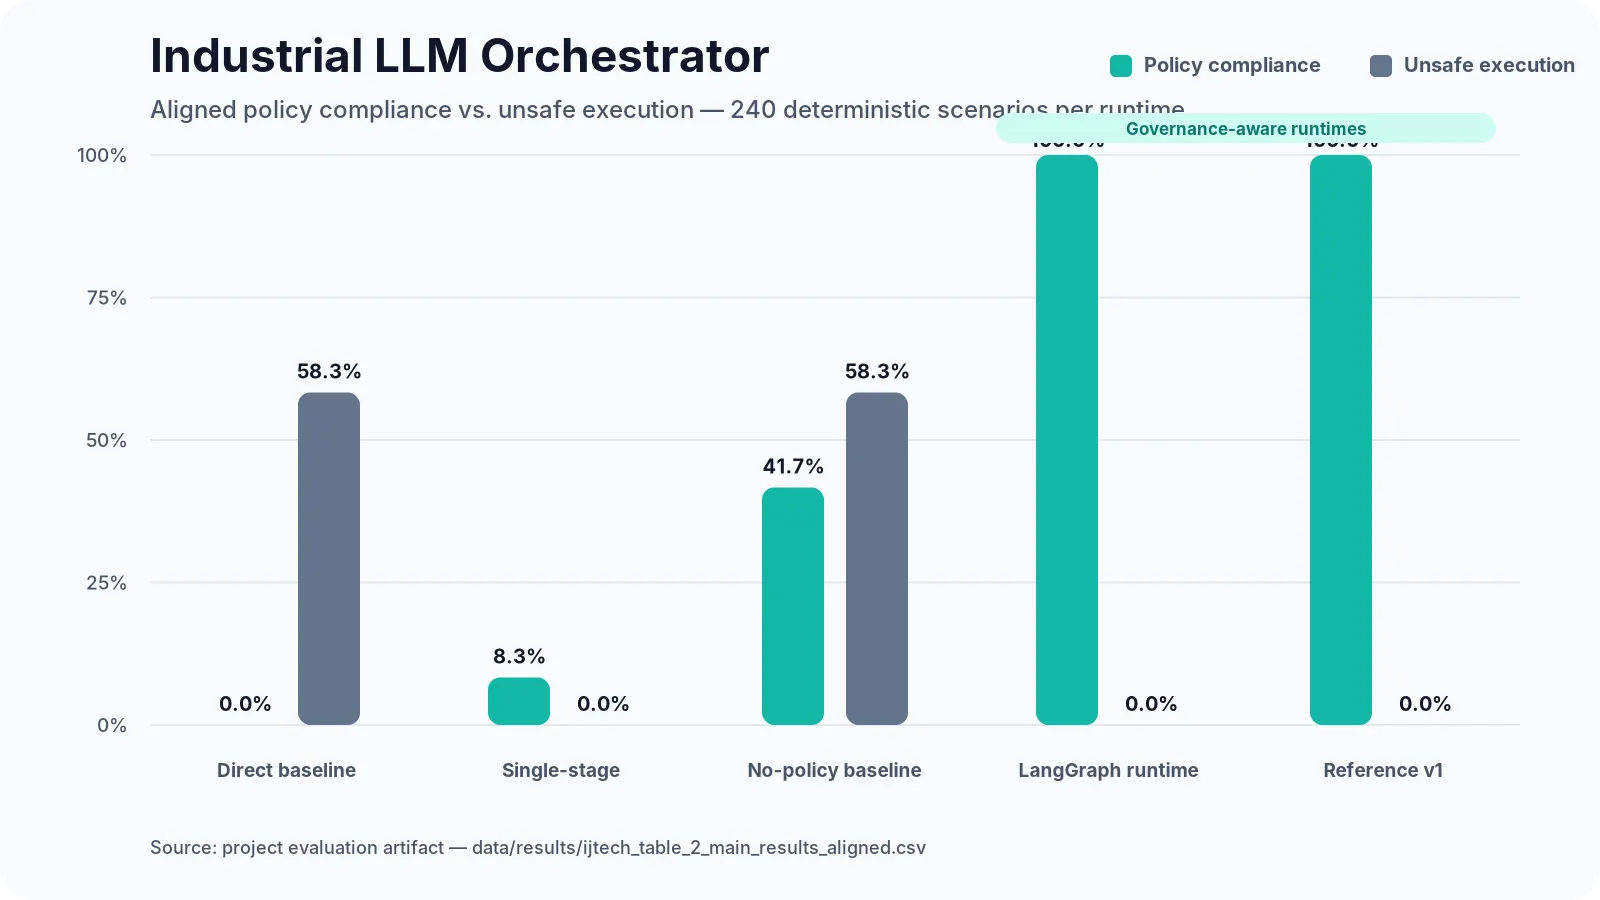
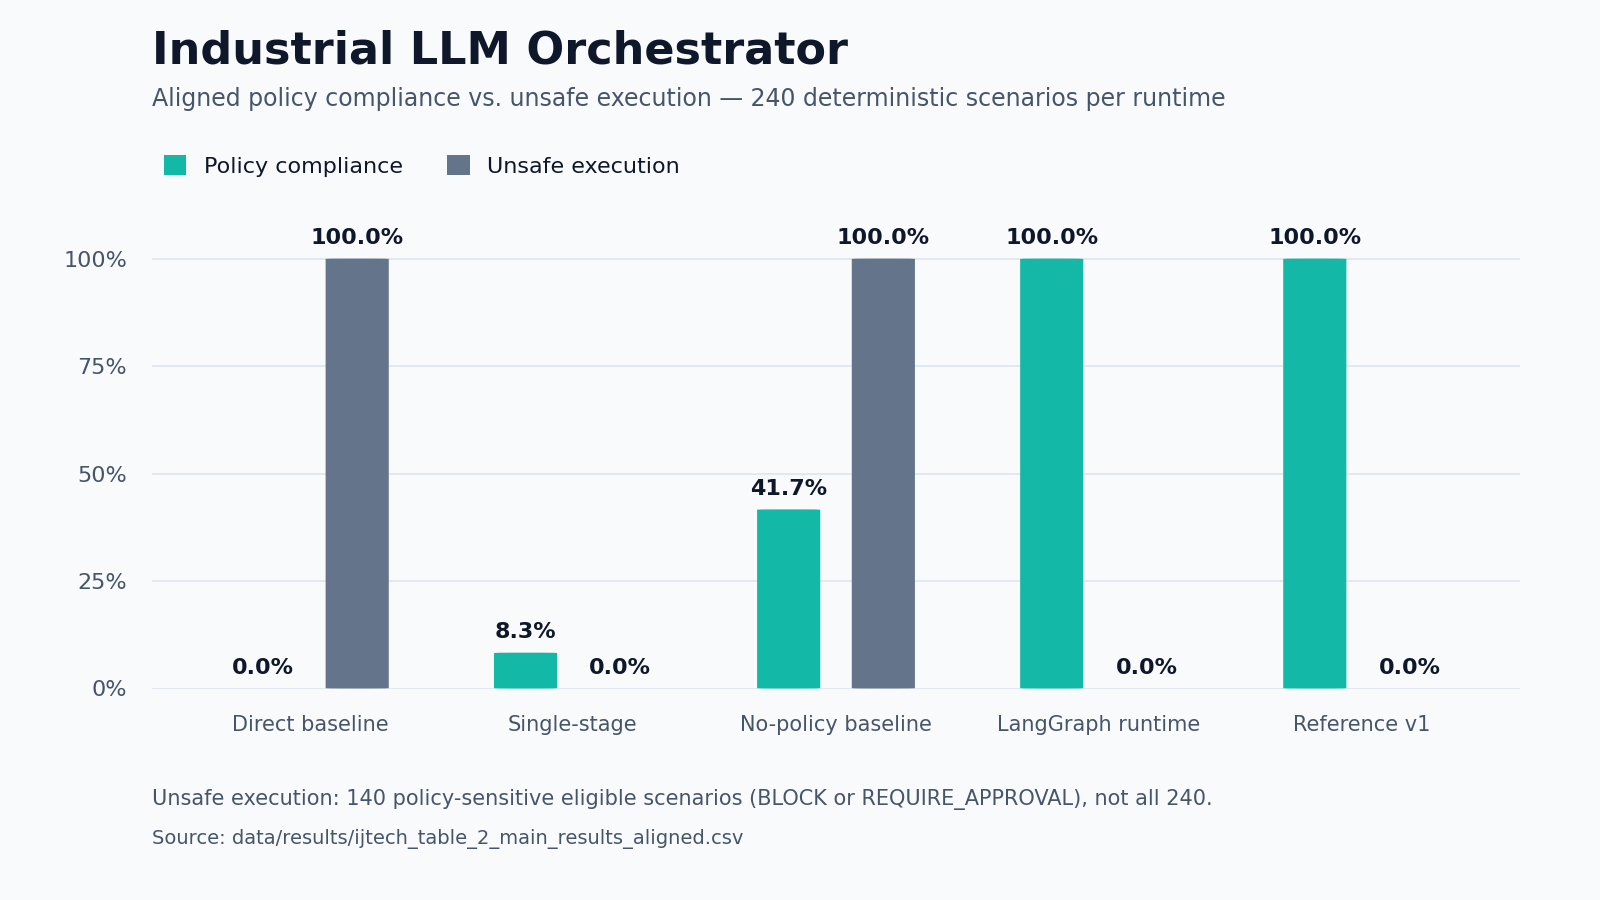
Finalize portfolio research evidence and positioning

diff --git a/projects.html b/projects.html
@@ -93,29 +93,35 @@
           <article class="project-detail" id="deep-synaptica">
             <img src="assets/images/projects/deep-synaptica.webp" width="1672" height="941" loading="lazy" alt="Deep Synaptica dashboard showing agent traces and evaluation" />
             <div>
-              <span class="project-label">Current research platform</span>
+              <span class="project-label">Research infrastructure / MVP</span>
               <h2>Deep Synaptica</h2>
               <p>
                 <strong>Research question:</strong> How can agent behavior be
                 made observable and reproducibly evaluated at the run level?
               </p>
               <p>
-                <strong>Method:</strong> A FastAPI backend connects an agent
-                runtime and custom JSON tracer to a Next.js/TypeScript dashboard
-                for inspecting tool use, outputs and latency.
+                <strong>Method:</strong> Implemented components include a FastAPI
+                run API, a Python/Groq workflow, a custom JSONL tracer, file-based
+                run summaries, and a Next.js/TypeScript dashboard. Integration
+                between runtime execution, tracing, summary persistence and
+                dashboard views is still in progress.
               </p>
               <p>
-                <strong>Evidence:</strong> Run API endpoints and stored JSONL
-                traces provide implementation artifacts for inspecting agent
-                behavior and developing evaluation workflows.
+                <strong>Evidence:</strong> The repository provides implemented
+                API routes, tracer schemas, JSONL event serialization, file-based
+                summary retrieval, and dashboard views as component-level
+                research infrastructure. Successful end-to-end run creation is
+                not yet demonstrated.
               </p>
               <p>
                 <strong>My contribution:</strong> Designed and implemented the
-                MVP architecture as part of my agent-observability research.
+                MVP components for agent-observability and evaluation research.
               </p>
               <p>
-                <strong>Scope:</strong> Research infrastructure / MVP; not a
-                production observability platform.
+                <strong>Scope:</strong> Research infrastructure / MVP with
+                incomplete end-to-end integration; not a production observability
+                platform or validated agent-quality benchmark. General tool
+                execution and tool-call tracing are not yet implemented.
               </p>
               <a
                 class="text-link"
@@ -129,7 +135,7 @@
           <article class="project-detail" id="industrial-orchestrator">
             <img
               src="assets/images/projects/industrial-orchestrator.webp" width="1600" height="900" loading="lazy"
-              alt="Outcome accuracy and policy compliance by orchestration runtime"
+              alt="Aligned policy compliance and conditional unsafe execution by orchestration runtime"
             />
             <div>
               <span class="project-label"
@@ -153,6 +159,17 @@
                 journal profile, both governance-aware runtimes recorded
                 runtime-aligned outcome accuracy and policy compliance of 1.0,
                 with zero unsafe executions under the documented definitions.
+              </p>
+              <p class="project-note">
+                Unsafe execution is calculated over the 140 policy-sensitive
+                eligible scenarios (BLOCK or REQUIRE_APPROVAL), not all 240
+                journal-profile scenarios.
+                <a class="text-link"
+                  href="assets/images/projects/industrial-orchestrator.webp"
+                  target="_blank"
+                  rel="noopener noreferrer"
+                  >View full-size chart<span class="icon" data-icon="external"></span></a
+                >
               </p>
               <p>
                 <strong>Scope:</strong> Deterministic research scenarios and mock
@@ -340,7 +357,7 @@
               <p>
                 <a
                   class="text-link"
-                  href="https://github.com/MarwanMAlfalah/phishing-website-detection-content-based-analysis"
+                  href="https://github.com/MarwanMAlfalah/content-phishing-detection"
                   target="_blank"
                   rel="noopener noreferrer"
                   >Code<span class="icon" data-icon="external"></span

diff --git a/index.html b/index.html
@@ -92,6 +92,9 @@
                 rel="noopener noreferrer"
                 >View CV</a
               >
+              <a class="text-link" href="publications.html"
+                >Publications<span class="icon" data-icon="arrowRight"></span></a
+              >
             </div>
             <div class="social-row">
               <a
@@ -267,7 +270,7 @@
                     rel="noopener noreferrer"
                     >Paper</a
                   ><a
-                    href="https://github.com/MarwanMAlfalah/phishing-website-detection-content-based-analysis"
+                    href="https://github.com/MarwanMAlfalah/content-phishing-detection"
                     target="_blank"
                     rel="noopener noreferrer"
                     >Code</a
@@ -327,8 +330,8 @@
               <div class="timeline-item">
                 <div class="timeline-date">2026</div>
                 <div class="timeline-text">
-                  Developing Deep Synaptica for agent observability and
-                  measurable evaluation.
+                  Developing Deep Synaptica as research infrastructure for
+                  agent observability and evaluation.
                 </div>
               </div>
               <div class="timeline-item">
@@ -378,8 +381,8 @@
                 <span class="project-label">Current</span>
                 <h3>Deep Synaptica</h3>
                 <p>
-                  An open-source observability and evaluation platform for
-                  making agent behavior traceable, measurable and reproducible.
+                  Research-oriented API, tracing and dashboard components for
+                  inspecting agent runs. End-to-end integration is in progress.
                 </p>
                 <div class="tag-row">
                   <span class="tag">Agent Evaluation</span
@@ -395,7 +398,7 @@
                 rel="noopener noreferrer"
                 ><img
                   src="assets/images/projects/industrial-orchestrator.webp" width="1600" height="900" loading="lazy"
-                  alt="Outcome accuracy and policy compliance by orchestration runtime"
+                  alt="Aligned policy compliance and conditional unsafe execution by orchestration runtime"
               /></a>
               <div class="project-body">
                 <span class="project-label">Research prototype</span>

diff --git a/publications.html b/publications.html
@@ -39,7 +39,7 @@
                 <p>Yousif A. Al-Haj, <strong>Marwan M. Al-Falah</strong>, Elena S. Gebel, Naif M. Al-Falah, Abdulrahman Mohammed Hussein Obaid, Mijahed Aljober, Hamzah A. M. Ali, Ismail I. Al-Ahmed, Somaia Yaseen Ahmed Al-Gwaini.</p>
                 <p>Artificial Intelligence Topics and Applications, 2(1), 80–97.</p>
                 <p>
-                  <a class="text-link" href="https://github.com/MarwanMAlfalah/phishing-website-detection-content-based-analysis" target="_blank" rel="noopener noreferrer">Code<span class="icon" data-icon="external"></span></a>
+                  <a class="text-link" href="https://github.com/MarwanMAlfalah/content-phishing-detection" target="_blank" rel="noopener noreferrer">Code<span class="icon" data-icon="external"></span></a>
                 </p>
               </div>
               <a class="btn btn-ghost" href="https://asejournals.com/journal/index.php/AITA/article/view/14" target="_blank" rel="noopener noreferrer">Paper</a>
@@ -80,7 +80,7 @@
                 <h3>Optimal Using of Machine Learning Algorithms Hyperparameters for Diabetes Prediction.</h3>
                 <p>Al-Andalus Journal for Applied Sciences, 10(17), 24.</p>
               </div>
-              <a class="btn btn-ghost" href="https://scholar.google.com/citations?view_op=view_citation&hl=en&user=TC1SgRMAAAAJ&citation_for_view=TC1SgRMAAAAJ:2osOgNQ5qMEC" target="_blank" rel="noopener noreferrer">Scholar</a>
+              <a class="btn btn-ghost" href="https://aust.uni.ye/journal/article/741" target="_blank" rel="noopener noreferrer">Paper</a>
             </article>
             <article class="pub-full">
               <div class="pub-year">2022</div>
@@ -88,7 +88,7 @@
                 <h3>E-Commerce in Yemen: Reality and Challenges.</h3>
                 <p>International Journal of Science, Engineering and Technology, 10(3).</p>
               </div>
-              <a class="btn btn-ghost" href="https://scholar.google.com/citations?user=TC1SgRMAAAAJ&amp;hl=en" target="_blank" rel="noopener noreferrer">Scholar</a>
+              <a class="btn btn-ghost" href="https://www.ijset.in/wp-content/uploads/IJSET_V10_issue3_251.pdf" target="_blank" rel="noopener noreferrer">Paper</a>
             </article>
           </div>
         </div>

diff --git a/contact.html b/contact.html
@@ -47,9 +47,9 @@
             <span class="accent">serious AI research?</span>
           </h1>
           <p>
-            I am open to PhD opportunities and research collaborations in
-            multi-agent systems, trustworthy AI, agent evaluation, NLP and
-            multimodal intelligent systems.
+            I am open to PhD opportunities, research collaborations, and
+            research engineering and AI/ML roles involving intelligent systems,
+            agentic AI, NLP, multimodal systems, evaluation or reliable AI.
           </p>
         </div>
       </section>
@@ -96,10 +96,21 @@
                 ><strong>Google Scholar</strong
                 ><span>Publication profile</span></span
               ></a
+            ><a
+              class="contact-method"
+              href="https://orcid.org/0000-0003-4142-6932"
+              target="_blank"
+              rel="noopener noreferrer"
+              ><span class="interest-icon"
+                ><span class="icon" data-icon="id"></span></span
+              ><span
+                ><strong>ORCID</strong
+                ><span>Research identifier</span></span
+              ></a
             >
           </div>
           <aside class="contact-note">
-            <span class="section-kicker">PhD opportunities</span>
+            <span class="section-kicker">Research &amp; engineering opportunities</span>
             <h2>Open to meaningful research</h2>
             <p>
               I am exploring PhD opportunities across AI and intelligent

diff --git a/assets/js/app.js b/assets/js/app.js
@@ -85,7 +85,7 @@
             <a href="mailto:marwanmalfalah@gmail.com" aria-label="Email"><span class="icon" data-icon="mail"></span></a>
           </div>
         </div>
-        <div class="footer-copy">© <span id="year"></span> Marwan M. Al-Falah. All rights reserved.<br>Hosted on <a href="https://pages.github.com/" target="_blank" rel="noopener noreferrer">GitHub Pages</a>. Last updated: October 10, 2026</div>
+        <div class="footer-copy">© <span id="year"></span> Marwan M. Al-Falah. All rights reserved.<br>Hosted on <a href="https://pages.github.com/" target="_blank" rel="noopener noreferrer">GitHub Pages</a>.</div>
       </div>`;
   }
 

diff --git a/assets/css/styles.css b/assets/css/styles.css
@@ -495,6 +495,12 @@ html[data-theme="dark"] .eyebrow-pill.primary {
   gap: 12px;
 }
 
+.hero-actions .text-link {
+  min-height: 32px;
+  align-self: center;
+  justify-self: start;
+}
+
 .social-row {
   display: flex;
   flex-wrap: wrap;
